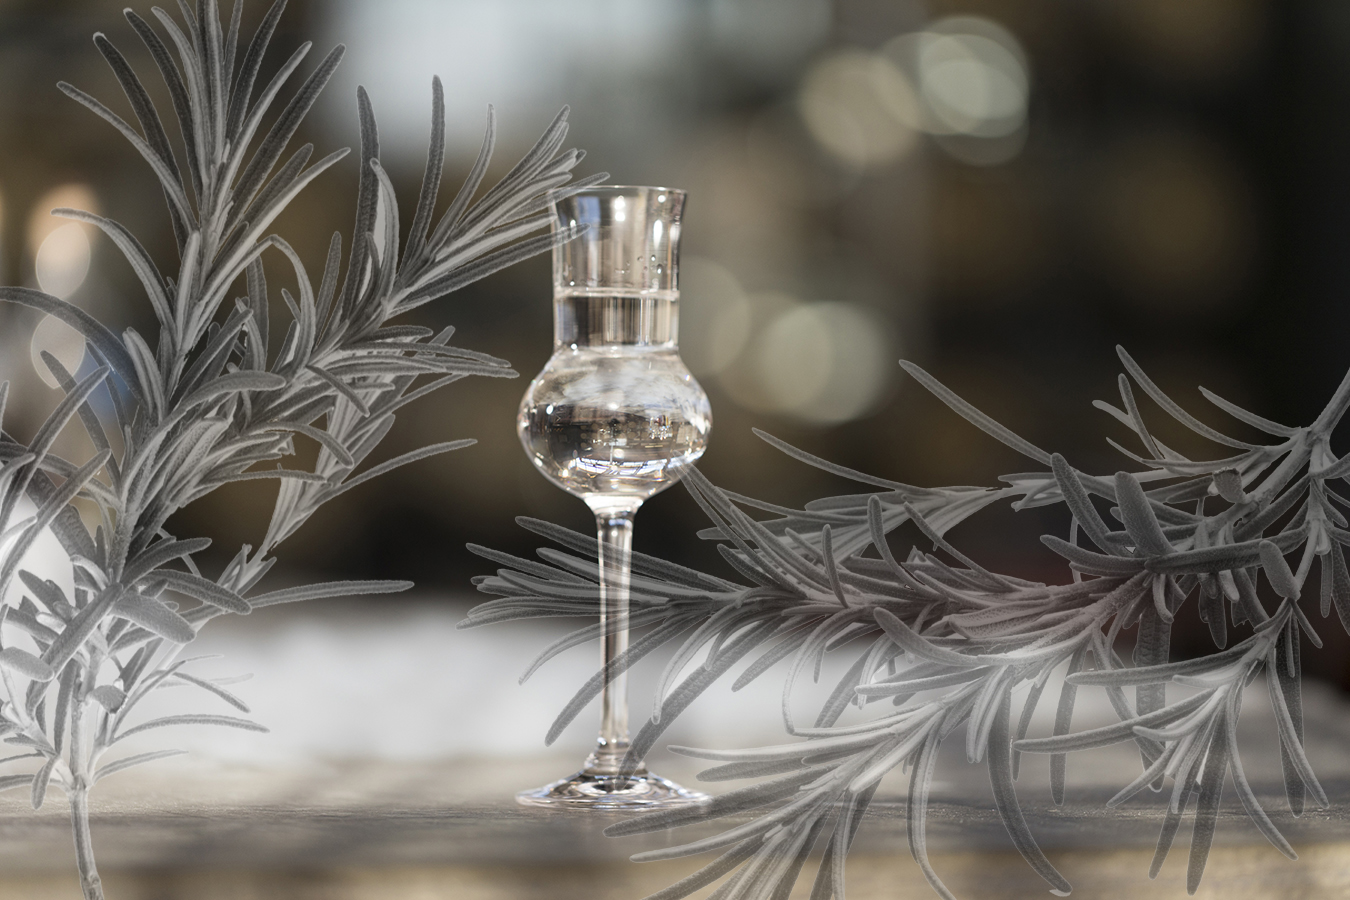
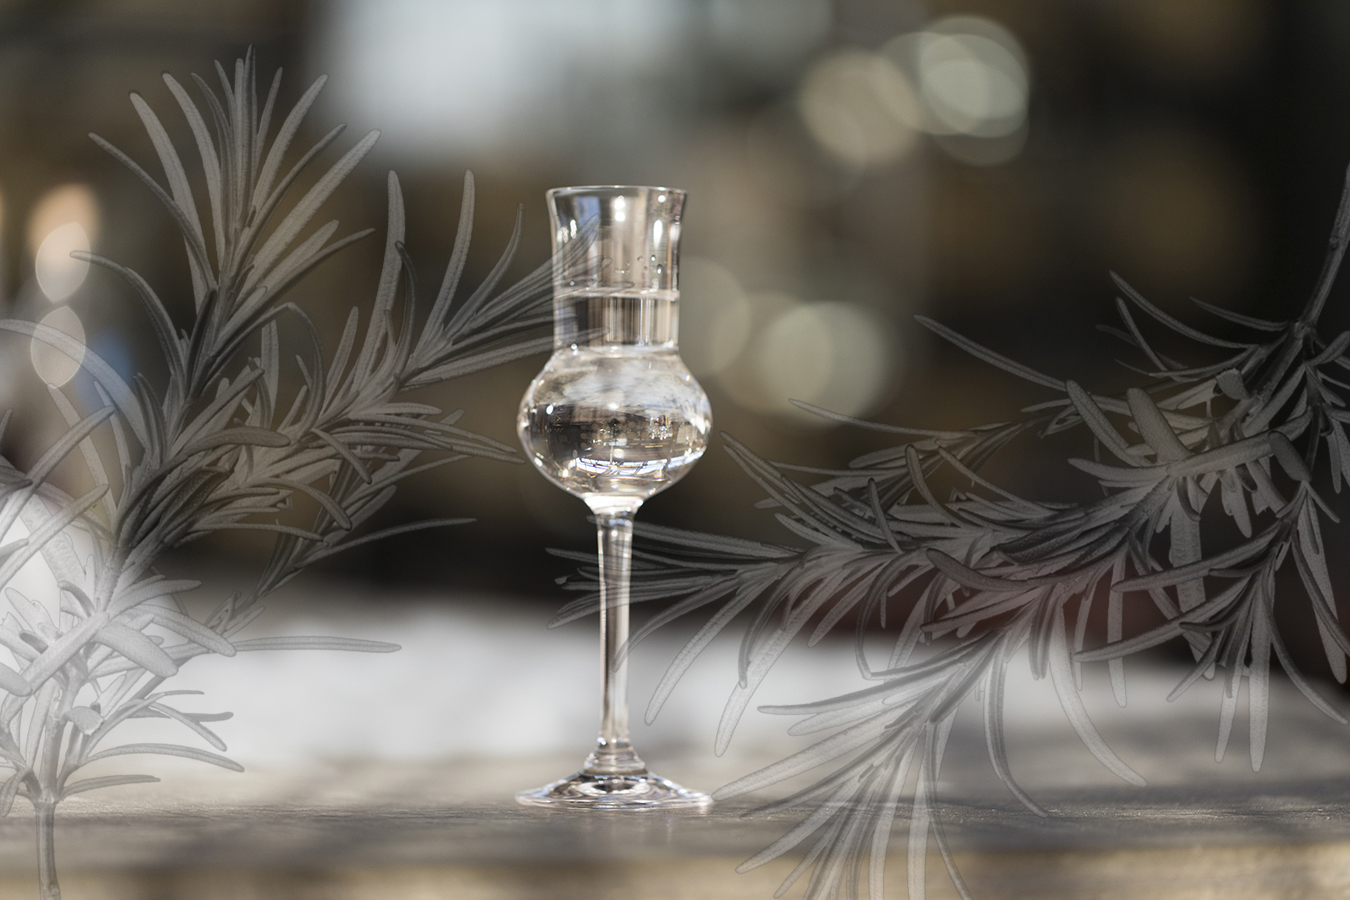
changing from essay to entry and updating images

Changed region(s): [[0.3422, 0.1867, 1.0, 1.0], [0.0, 0.0, 0.4667, 1.0]]

diff --git a/content/intro/essay3.md b/content/intro/essay3.md
@@ -2,8 +2,8 @@
 title: The Project
 subtitle: A Collaboration of Kindred and Complementary Spirits
 weight: 43
-image: tasting.jpg
-type: essay
+image: tasting2.jpg
+type: entry
 ---
 
 This project has been a joint effort of the Minneapolis Institute of Art (Mia), the Wangensteen Historical Library of Biology and Medicine at the University of Minnesota, and Tattersall Distilling in Minneapolis. It was driven by individuals who are interested in historical material culture, in recreating historical products, and in searching for unique flavors. We have researched countless beverages and recreated and tasted many of them. Our unique combination of interest, expertise, and creative spirit has resulted in an interesting, evocative, and delicious project that we are very happy to share with you.

diff --git a/content/intro/essay5.md b/content/intro/essay5.md
@@ -2,8 +2,8 @@
 title: Organizational Contributors
 subtitle:
 weight: 45
-image: group.jpg
-type: essay
+image: group2.jpg
+type: entry
 ---
 
 ## **About the Minneapolis Institute of Art**

diff --git a/content/intro/essay1.md b/content/intro/essay1.md
@@ -2,8 +2,8 @@
 title: Alcohol in the 1700s Atlantic World
 subtitle:
 weight: 41
-image: beer-street.jpg
-type: essay
+image: beer-detail.jpg
+type: entry
 ---
 
 

diff --git a/content/intro/essay4.md b/content/intro/essay4.md
@@ -2,8 +2,8 @@
 title: The 1700s Drinking Culture Recipe Book
 subtitle:
 weight: 44
-image: pouring.jpg
-type: essay
+image: pouring2.jpg
+type: entry
 ---
 
 
